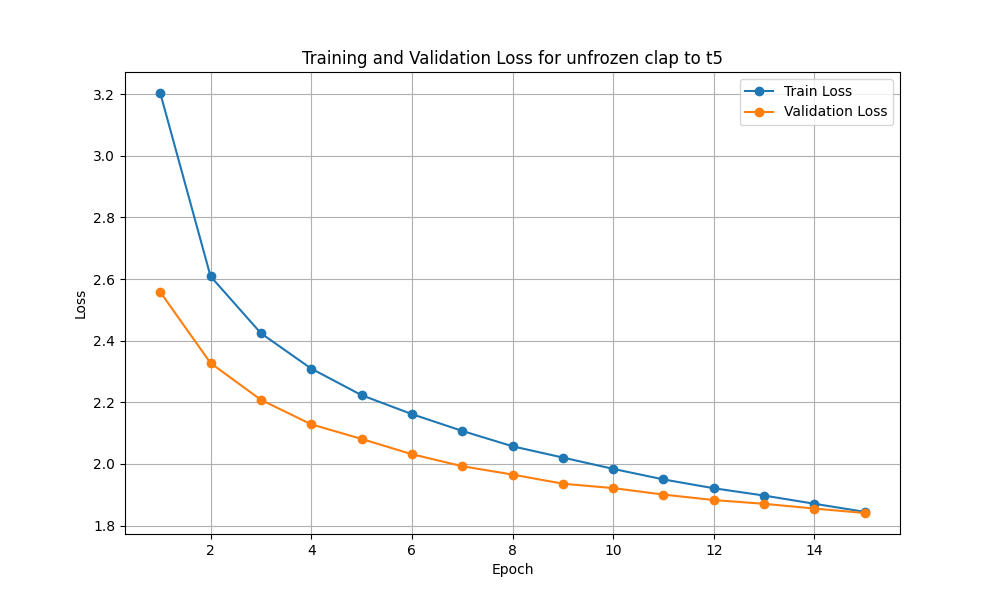
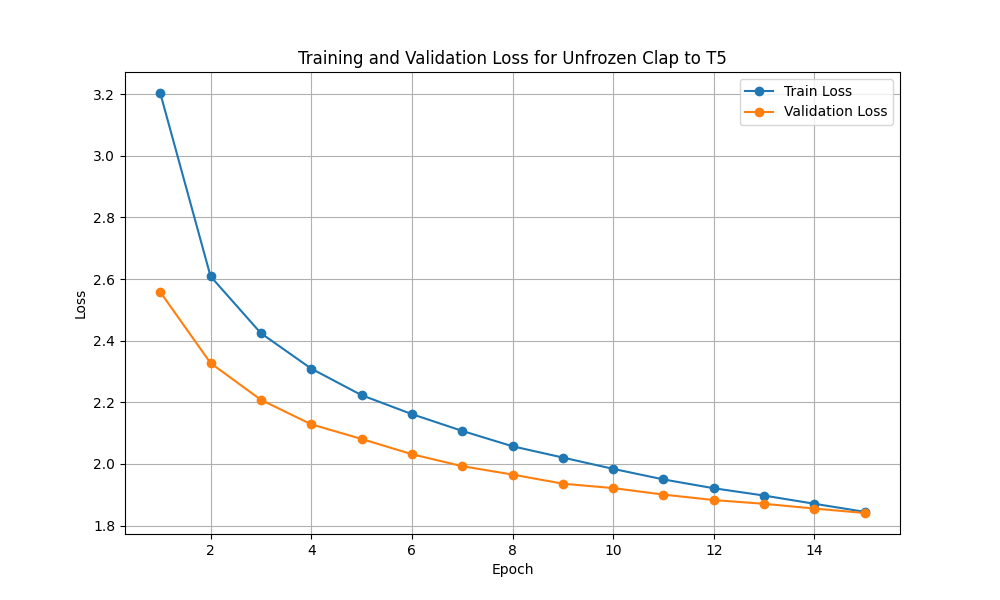
plots for clap

Changed region(s): [[0.31, 0.09, 0.744, 0.12]]

diff --git a/plot_loss.py b/plot_loss.py
@@ -67,31 +67,31 @@ def plot_losses(model_name, plot_title, base_local_path='models', save_path=None
         plt.show()
 
 model_name = "fine_tuned_wav2vec_t5_frozen"
-plot_title = "frozen wav2vec 2.0 to t5"
+plot_title = "Frozen wav2vec 2.0 to T5"
 save_path = "plots/" + model_name + '_loss_plot.png' 
 plot_losses(model_name, plot_title, save_path=save_path)
 
 model_name = "fine_tuned_wav2vec_t5_unfrozen" 
-plot_title = "unrozen wav2vec 2.0 to t5"
+plot_title = "Unrozen wav2vec 2.0 to T5"
 save_path = "plots/" + model_name + '_loss_plot.png'
 plot_losses(model_name, plot_title, save_path=save_path)
 
 model_name = "fine_tuned_mert_pro_t5_frozen" 
-plot_title = "frozen mert to t5"
+plot_title = "Frozen Mert to T5"
 save_path = "plots/" + model_name + '_loss_plot.png'
 plot_losses(model_name, plot_title, save_path=save_path)
 
 model_name = "fine_tuned_mert_pro_t5_unfrozen" 
-plot_title = "ufnrozen mert to t5"
+plot_title = "Ufnrozen Mert to T5"
+save_path = "plots/" + model_name + '_loss_plot.png'
+plot_losses(model_name, plot_title, save_path=save_path)
+
+model_name = "fine_tuned_clap_t5_frozen" 
+plot_title = "Frozen Clap to T5"
 save_path = "plots/" + model_name + '_loss_plot.png'
 plot_losses(model_name, plot_title, save_path=save_path)
 
 model_name = "fine_tuned_clap_t5_unfrozen" 
-plot_title = "frozen clap to t5"
-save_path = "plots/" + model_name + '_loss_plot.png'
-plot_losses(model_name, plot_title, save_path=save_path)
-
-model_name = "fine_tuned_clap_t5_unfrozen" 
-plot_title = "unfrozen clap to t5"
+plot_title = "Unfrozen Clap to T5"
 save_path = "plots/" + model_name + '_loss_plot.png'
 plot_losses(model_name, plot_title, save_path=save_path)
